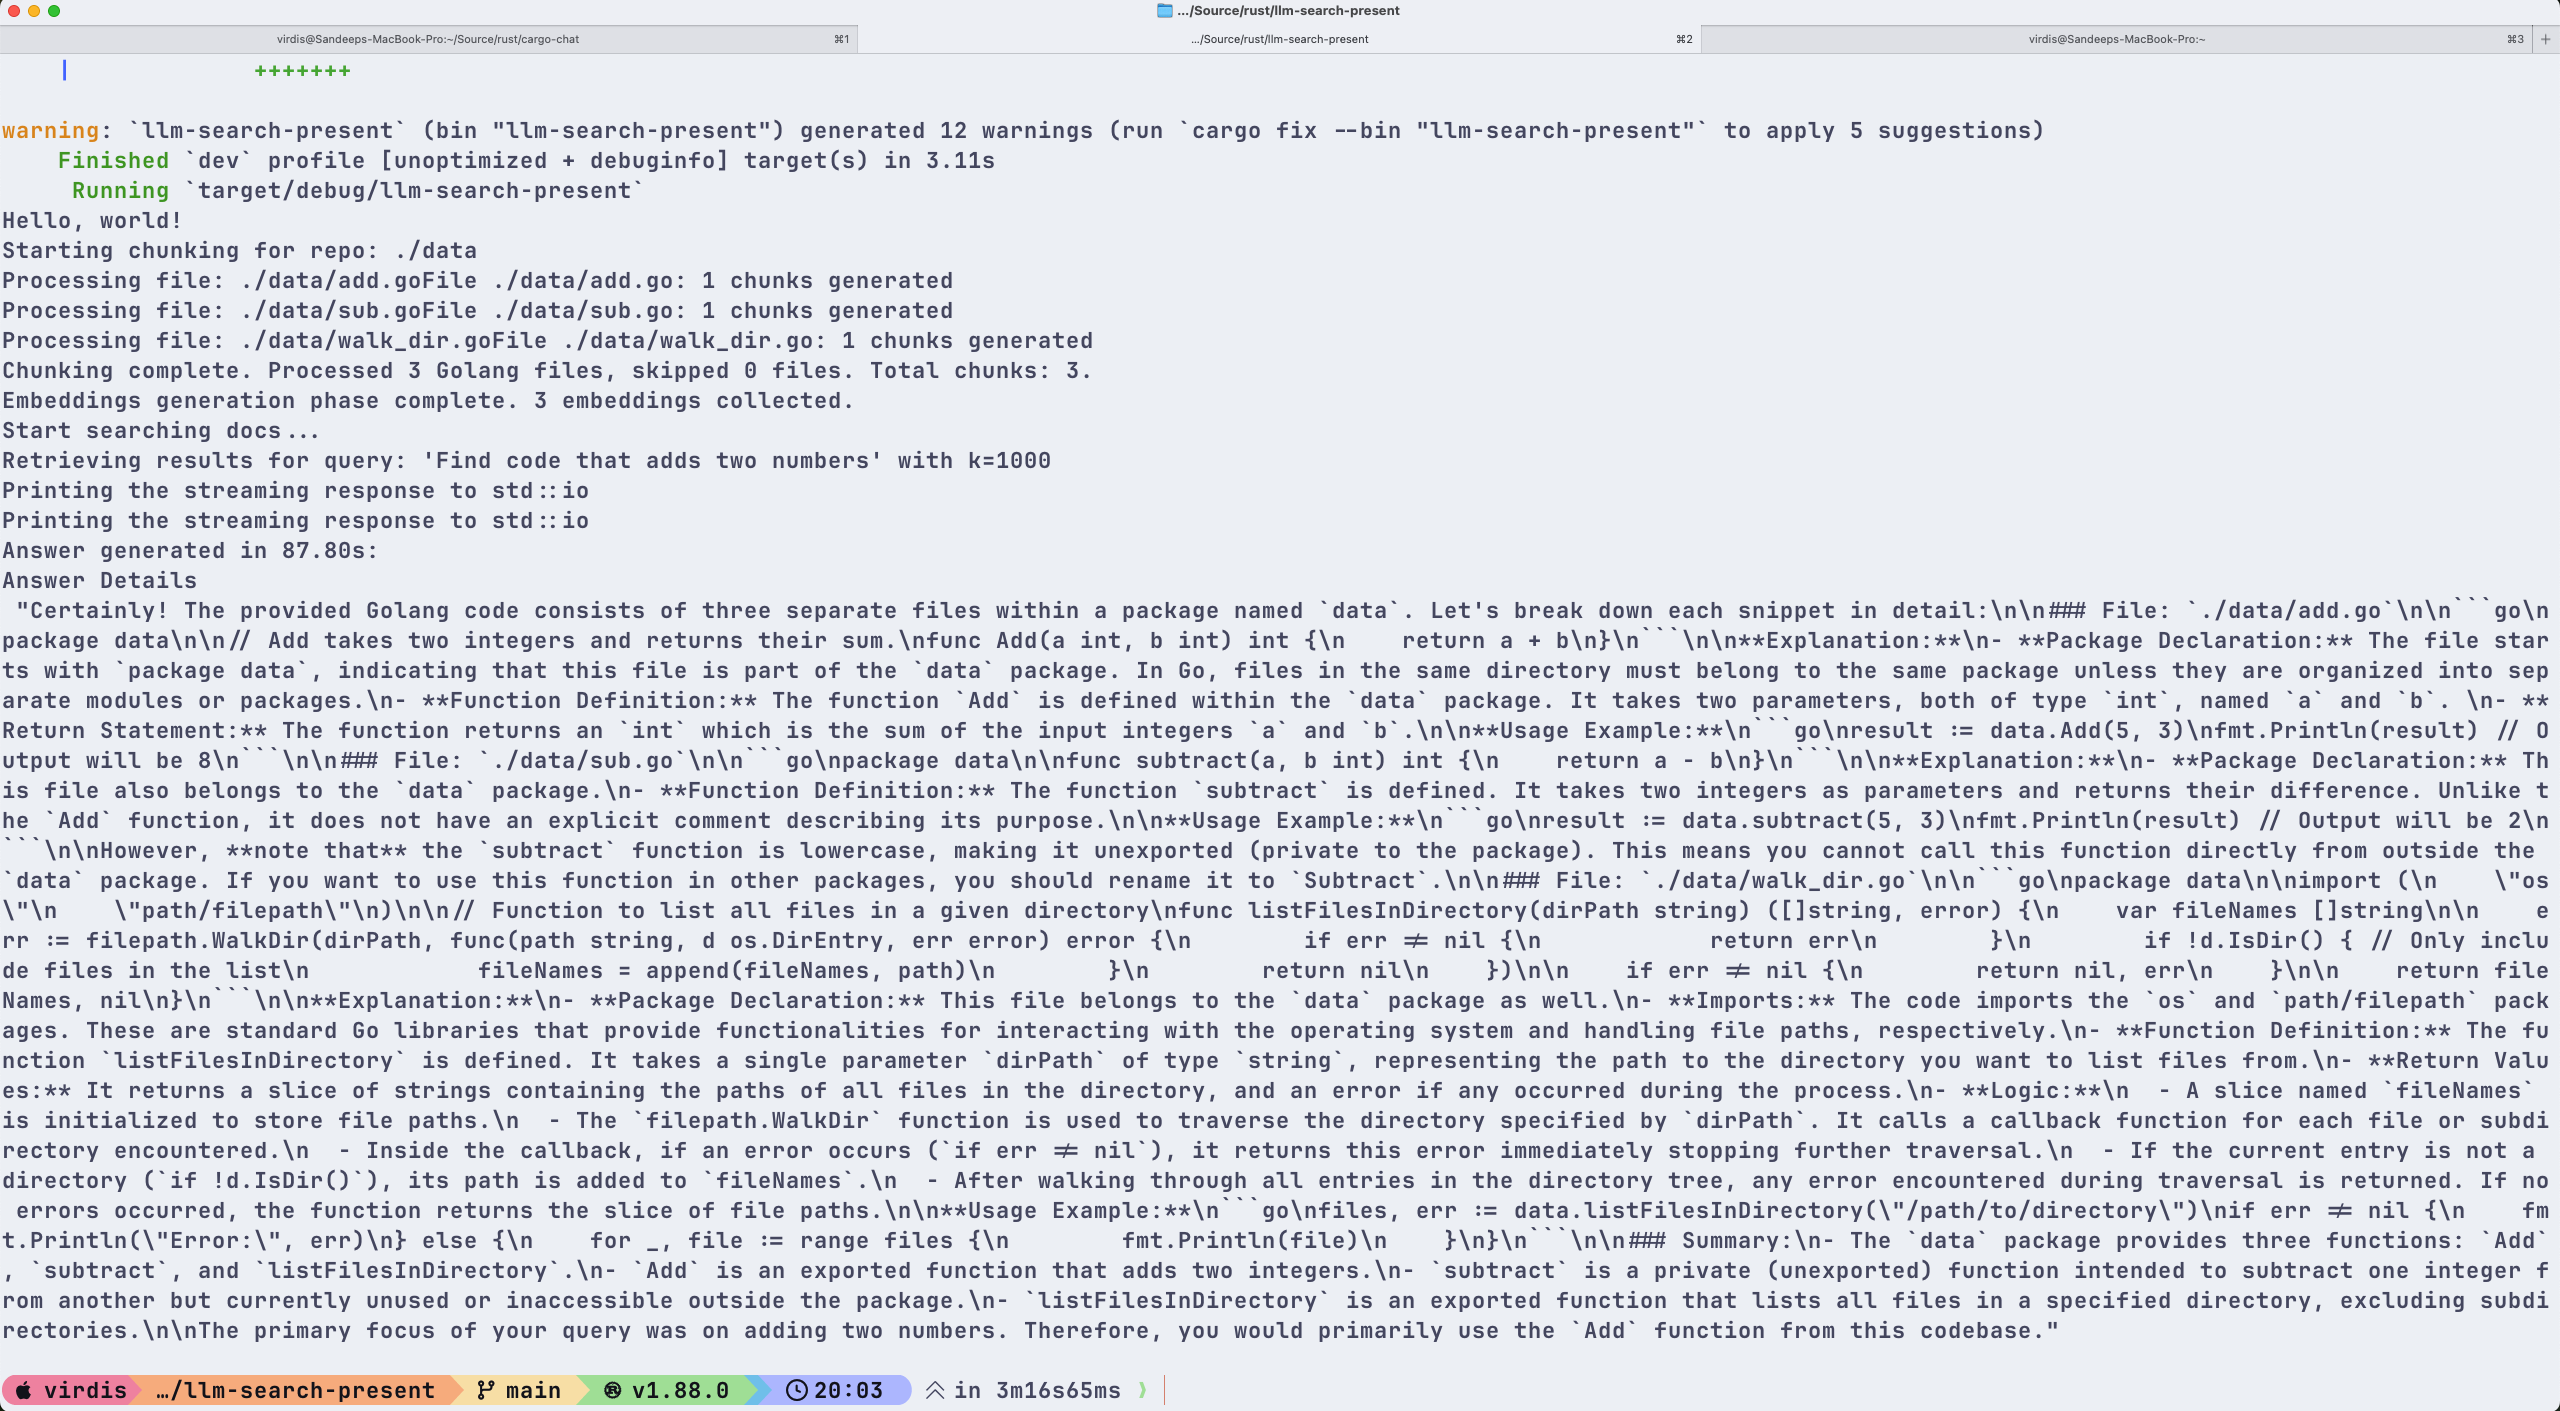
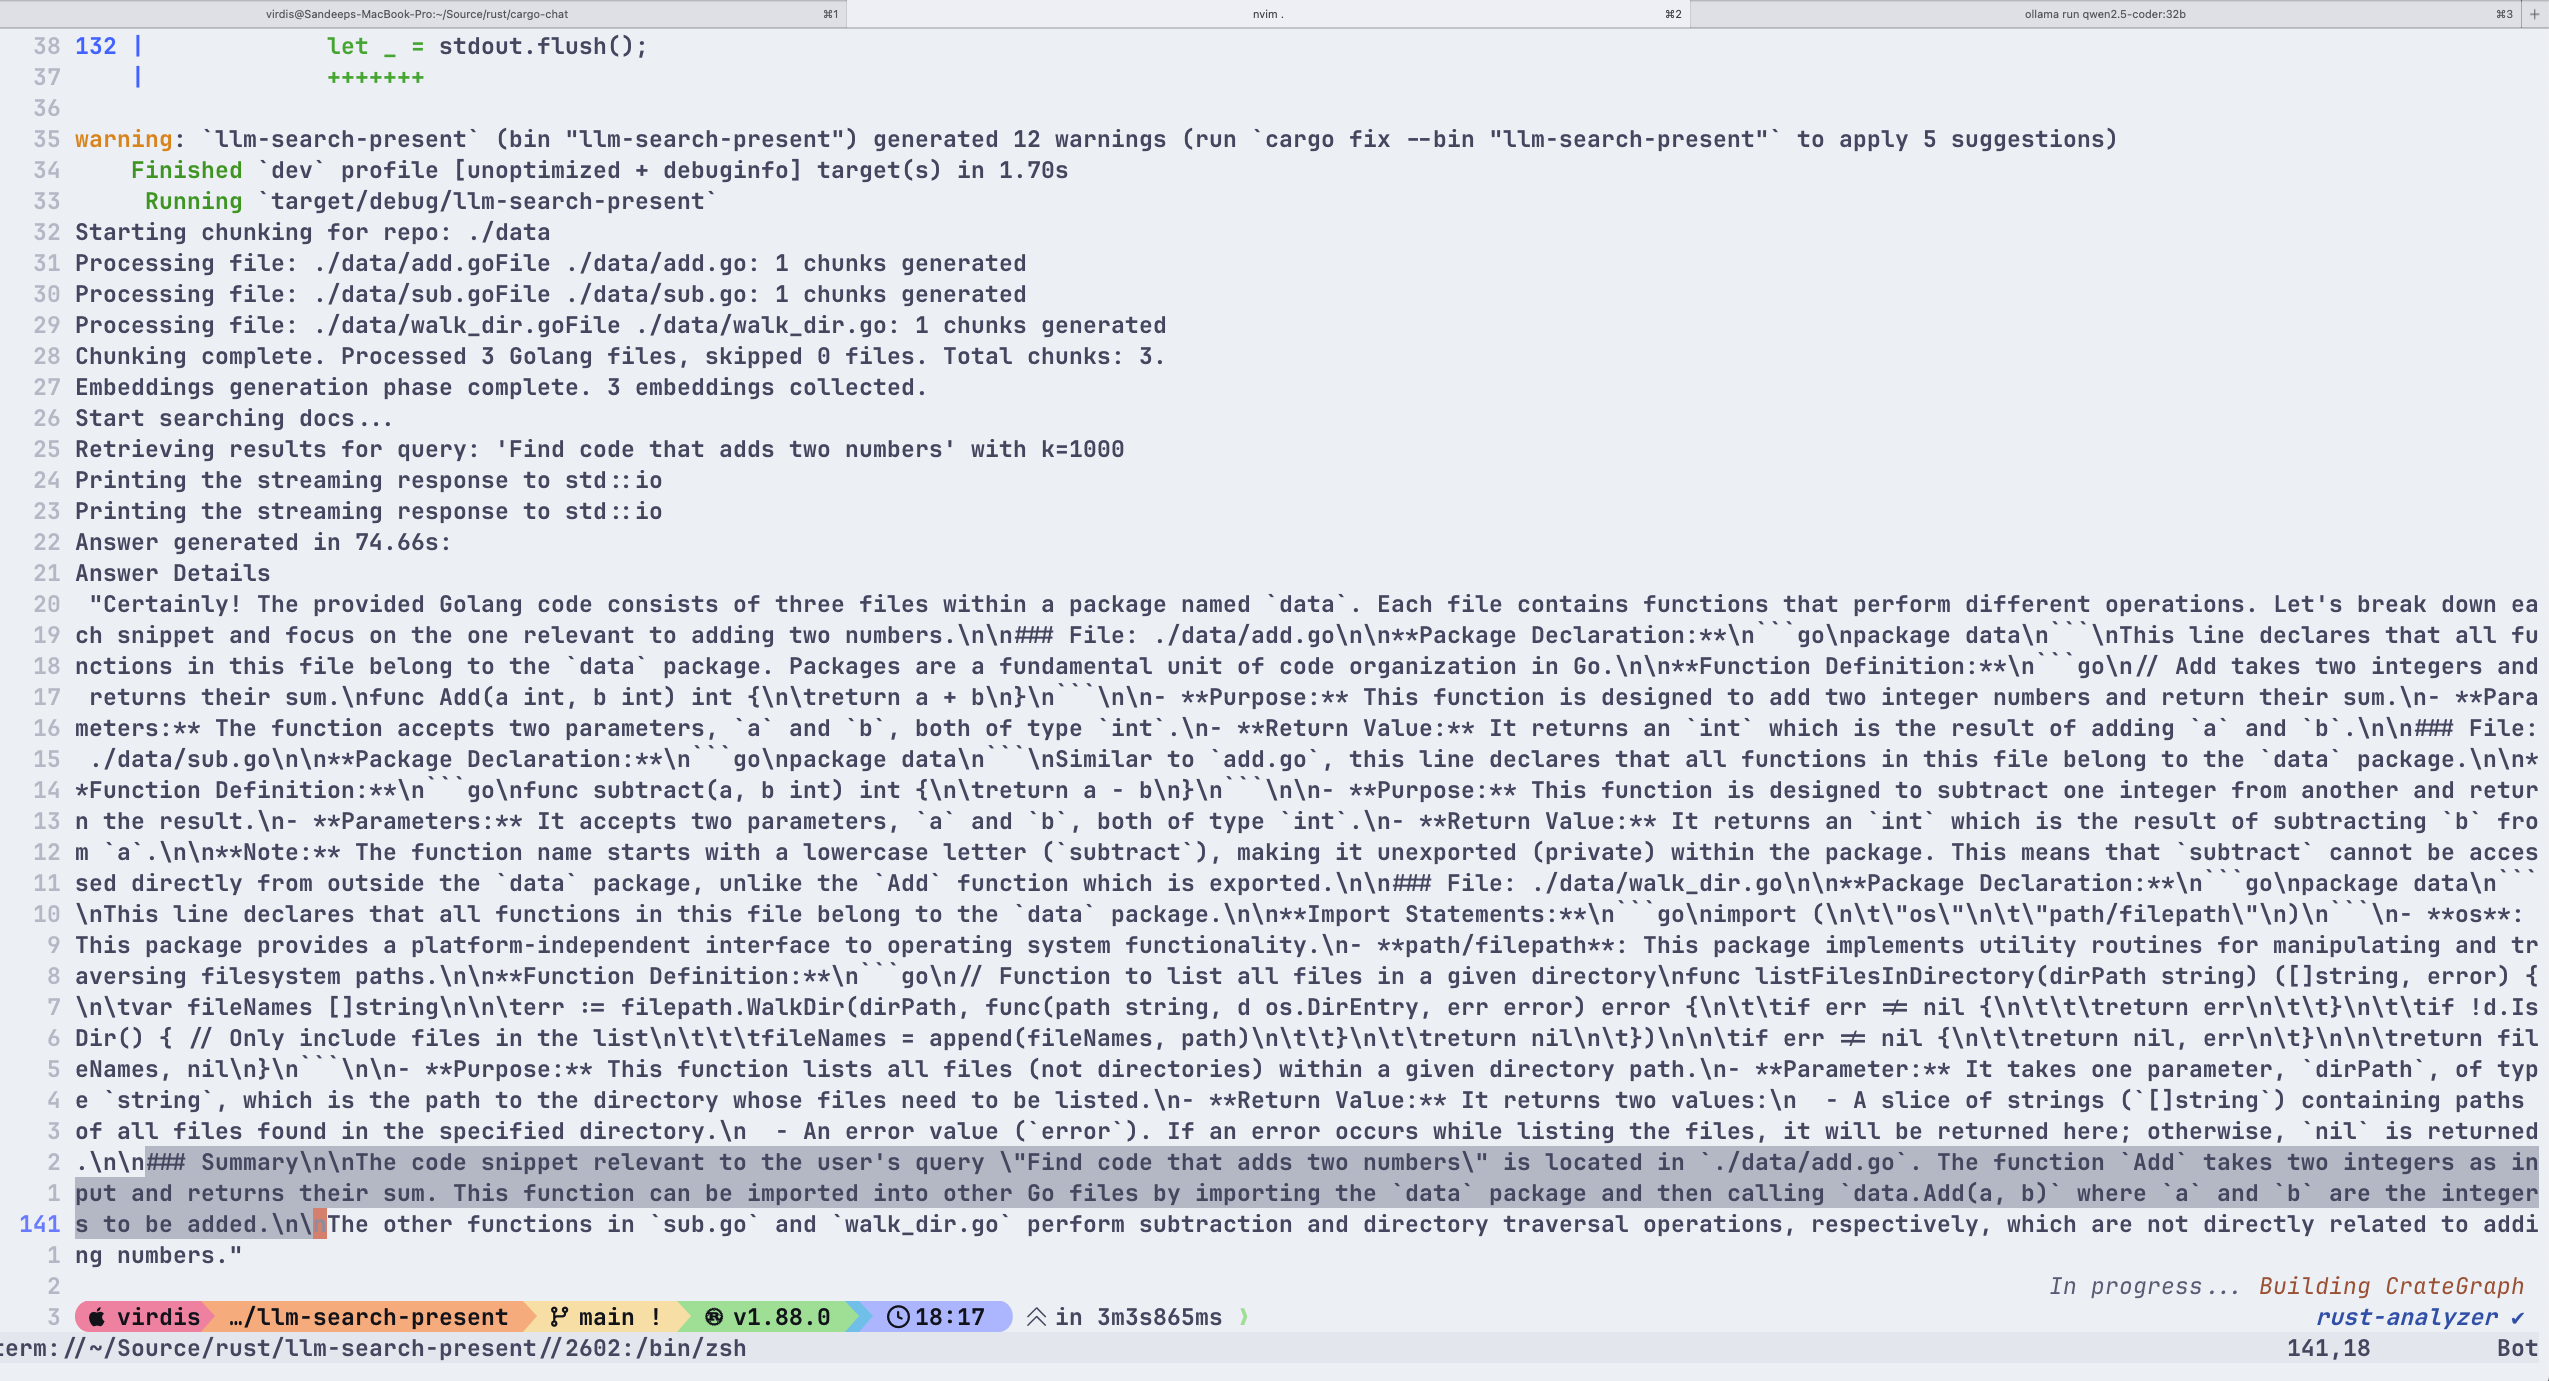
cleanup

diff --git a/src/main.rs b/src/main.rs
@@ -204,8 +204,6 @@ async fn search_docs(
 
 #[tokio::main]
 async fn main() -> Result<()> {
-    println!("Hello, world!");
-
     let embedder = MyEmbedder::new().unwrap();
 
     let approx_nearest_neigh = build_index(&embedder).await.unwrap();
